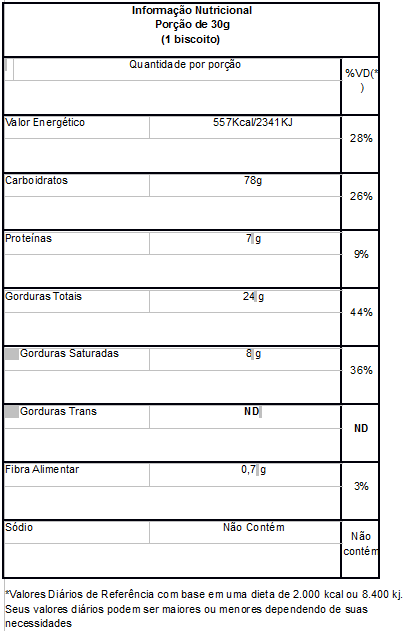
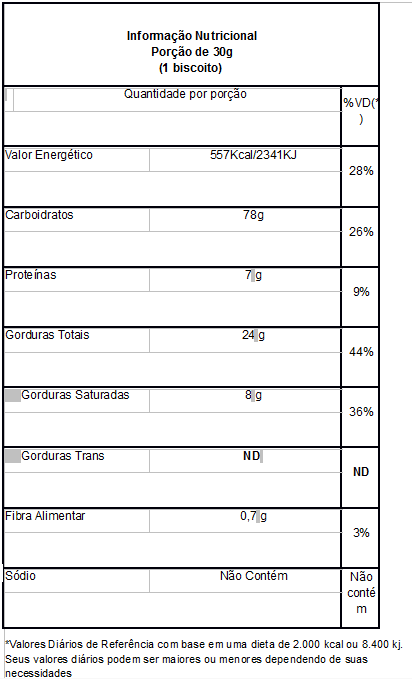
Mais receitas

Changed region(s): [[0.0, 0.0, 1.0, 1.0]]

diff --git a/rece_arroz_doce.html b/rece_arroz_doce.html
@@ -20,19 +20,34 @@
 
 	<div id = "rece_esque">
 		<div class = "rece_img">
-			<img src = "imgreceitas/bolo_banana.jpg" width ="300" height="267">
+			<img src = "imgreceitas/arroz_doce.png" width ="300" height="267">
 			<p>Tabela nutricional</p>
-			<img src="imgreceitas\tabela_teste.jpg" width="345" height="460">
+			<img src="imgreceitas\tab_arroz_doce.png" width="345" height="460">
 		</div>
 		<div id="rece_info">
-			<h1>Nome receita</h1></br>
-			<h2>RENDIMENTO</h2></br></br> 
-			<p id = "ing"> INGREDIENTES </p></br></br>
-			<p id = "ing"> COMO FAZER </p>
+			<h1>Arroz Doce Fácil</h1></br>
+			<h2>Rendimento: 4 porções</br>
+				Rendimento total: 750g</h2></br></br> 
+			<p id = "ing"> Ingredientes:</br>
+
+				500 gramas arroz branco cozido</br>
+				200 mililitros leite de coco</br>
+				200 mililitros água</br>
+				240 gramas açúcar ou 120 g de frutose</br>
+				Cravo a gosto</br>
+				Canela a gosto</br>
+				Uva passa opcional</br>
+				1/2 caixa creme de soja opcional </p></br></br>
+			<p id = "ing"> Modo de Preparo:</br>
+				Tempo de Preparo: 20 minutos</br>
+				Utilize 500 gr de arroz já cozido (mesmo que esteja com sal).</br>
+				Numa panela acrescente o leite de coco, a água, o açúcar, cravo e canela.</br>
+				Em fogo baixo deixe apurar até adquirir consistência mais cremosa.</br>
+				Se quiser deixar mais cremoso, acrescente o creme de soja no final. </p>
 		</div>
 		<div id="origem">
 			<h2>Origem:</h2>
-            <a href=""> Nome da Origem</a>
+            <a href="http://www.semglutensemlactose.com/receita/arroz-doce-facil/"> Arroz Doce</a>
 		</div>
 	</div>
 </body>

diff --git a/rece_cookies_cacau.html b/rece_cookies_cacau.html
@@ -22,7 +22,7 @@
 		<div class = "rece_img">
 			<img src = "imgreceitas/cookie_cacau.png" width ="300" height="267">
 			<p>Tabela nutricional</p>
-			<img src="imgreceitas\tab_cookies_cacau.png" width="345" height="430">
+			<img src="imgreceitas\tab_cookies_cacau.png" width="345" height="460">
 		</div>
 		<div id="rece_info">
 			<h1>Cookies de Cacau Sem Lactose, Sem Glúten, Sem Soja</h1></br>

diff --git a/rece_bolo_banana.html b/rece_bolo_banana.html
@@ -22,7 +22,7 @@
 		<div class = "rece_img">
 			<img src = "imgreceitas/bolo_banana.jpg" width ="300" height="267">
 			<p>Tabela nutricional</p>
-			<img src="imgreceitas\tab_bolo_banana.png" width="345" height="430">
+			<img src="imgreceitas\tab_bolo_banana.png" width="345" height="460">
 		</div>
 		<div id="rece_info">
 			<h1>Bolo integral de banana sem açúcar</h1></br>

diff --git a/rece_cookies_integrais.html b/rece_cookies_integrais.html
@@ -22,7 +22,7 @@
 		<div class = "rece_img">
 			<img src = "imgreceitas/coockie_integral.jpg" width ="300" height="267">
 			<p>Tabela nutricional</p>
-			<img src="imgreceitas\tab_cookie_integral.png" width="345" height="430">
+			<img src="imgreceitas\tab_cookie_integral.png" width="345" height="460">
 		</div>
 		<div id="rece_info">
 			<h1>Cookies integrais</h1></br>

diff --git a/rece_sopa_abobora.html b/rece_sopa_abobora.html
@@ -22,7 +22,7 @@
 		<div class = "rece_img">
 			<img src = "imgreceitas/sopa_abobora.jpg" width ="300" height="267">
 			<p>Tabela nutricional</p>
-			<img src="imgreceitas/tab_sopa_abobora.png" width="345" height="430">
+			<img src="imgreceitas/tab_sopa_abobora.png" width="345" height="460">
 		</div>
 		<div id="rece_info">
 			<h1>Sopa de abóbora</h1></br>

diff --git a/rece_petit_gateau.html b/rece_petit_gateau.html
@@ -22,7 +22,7 @@
 		<div class = "rece_img">
 			<img src = "imgreceitas/petit_gateau.png" width ="300" height="267">
 			<p>Tabela nutricional</p>
-			<img src="imgreceitas\tab_petit_gateau.png" width="345" height="430">
+			<img src="imgreceitas\tab_petit_gateau.png" width="345" height="460">
 		</div>
 		<div id="rece_info">
 			<h1>Petit Gateau</h1></br>

diff --git a/rece_mousse_morango.html b/rece_mousse_morango.html
@@ -22,7 +22,7 @@
 		<div class = "rece_img">
 			<img src = "imgreceitas/mousse_morango.jpg" width ="300" height="267">
 			<p>Tabela nutricional</p>
-			<img src="imgreceitas\tabela_teste.jpg" width="345" height="430">
+			<img src="imgreceitas\tabela_teste.jpg" width="345" height="460">
 		</div>
 		<div id="rece_info">
 			<h1>Mousse de morando</h1></br>

diff --git a/rece_alfajor.html b/rece_alfajor.html
@@ -22,7 +22,7 @@
 		<div class = "rece_img">
 			<img src = "imgreceitas/alfajor.png" width ="300" height="267">
 			<p>Tabela nutricional</p>
-			<img src="imgreceitas/tab_alfajor.PNG" width="345" height="430">
+			<img src="imgreceitas/tab_alfajor.PNG" width="345" height="460">
 		</div>
 		<div id="rece_info">
 			<h1>Biscoito: Alfajor</h1></br>

diff --git a/rece_pudim.html b/rece_pudim.html
@@ -22,7 +22,7 @@
 		<div class = "rece_img">
 			<img src = "imgreceitas/pudim.jpg" width ="300" height="267">
 			<p>Tabela nutricional</p>
-			<img src="imgreceitas/tab_pudim.png" width="345" height="430">
+			<img src="imgreceitas/tab_pudim.png" width="345" height="460">
 		</div>
 		<div id="rece_info">
 			<h1>Pudim sem leite</h1></br>
